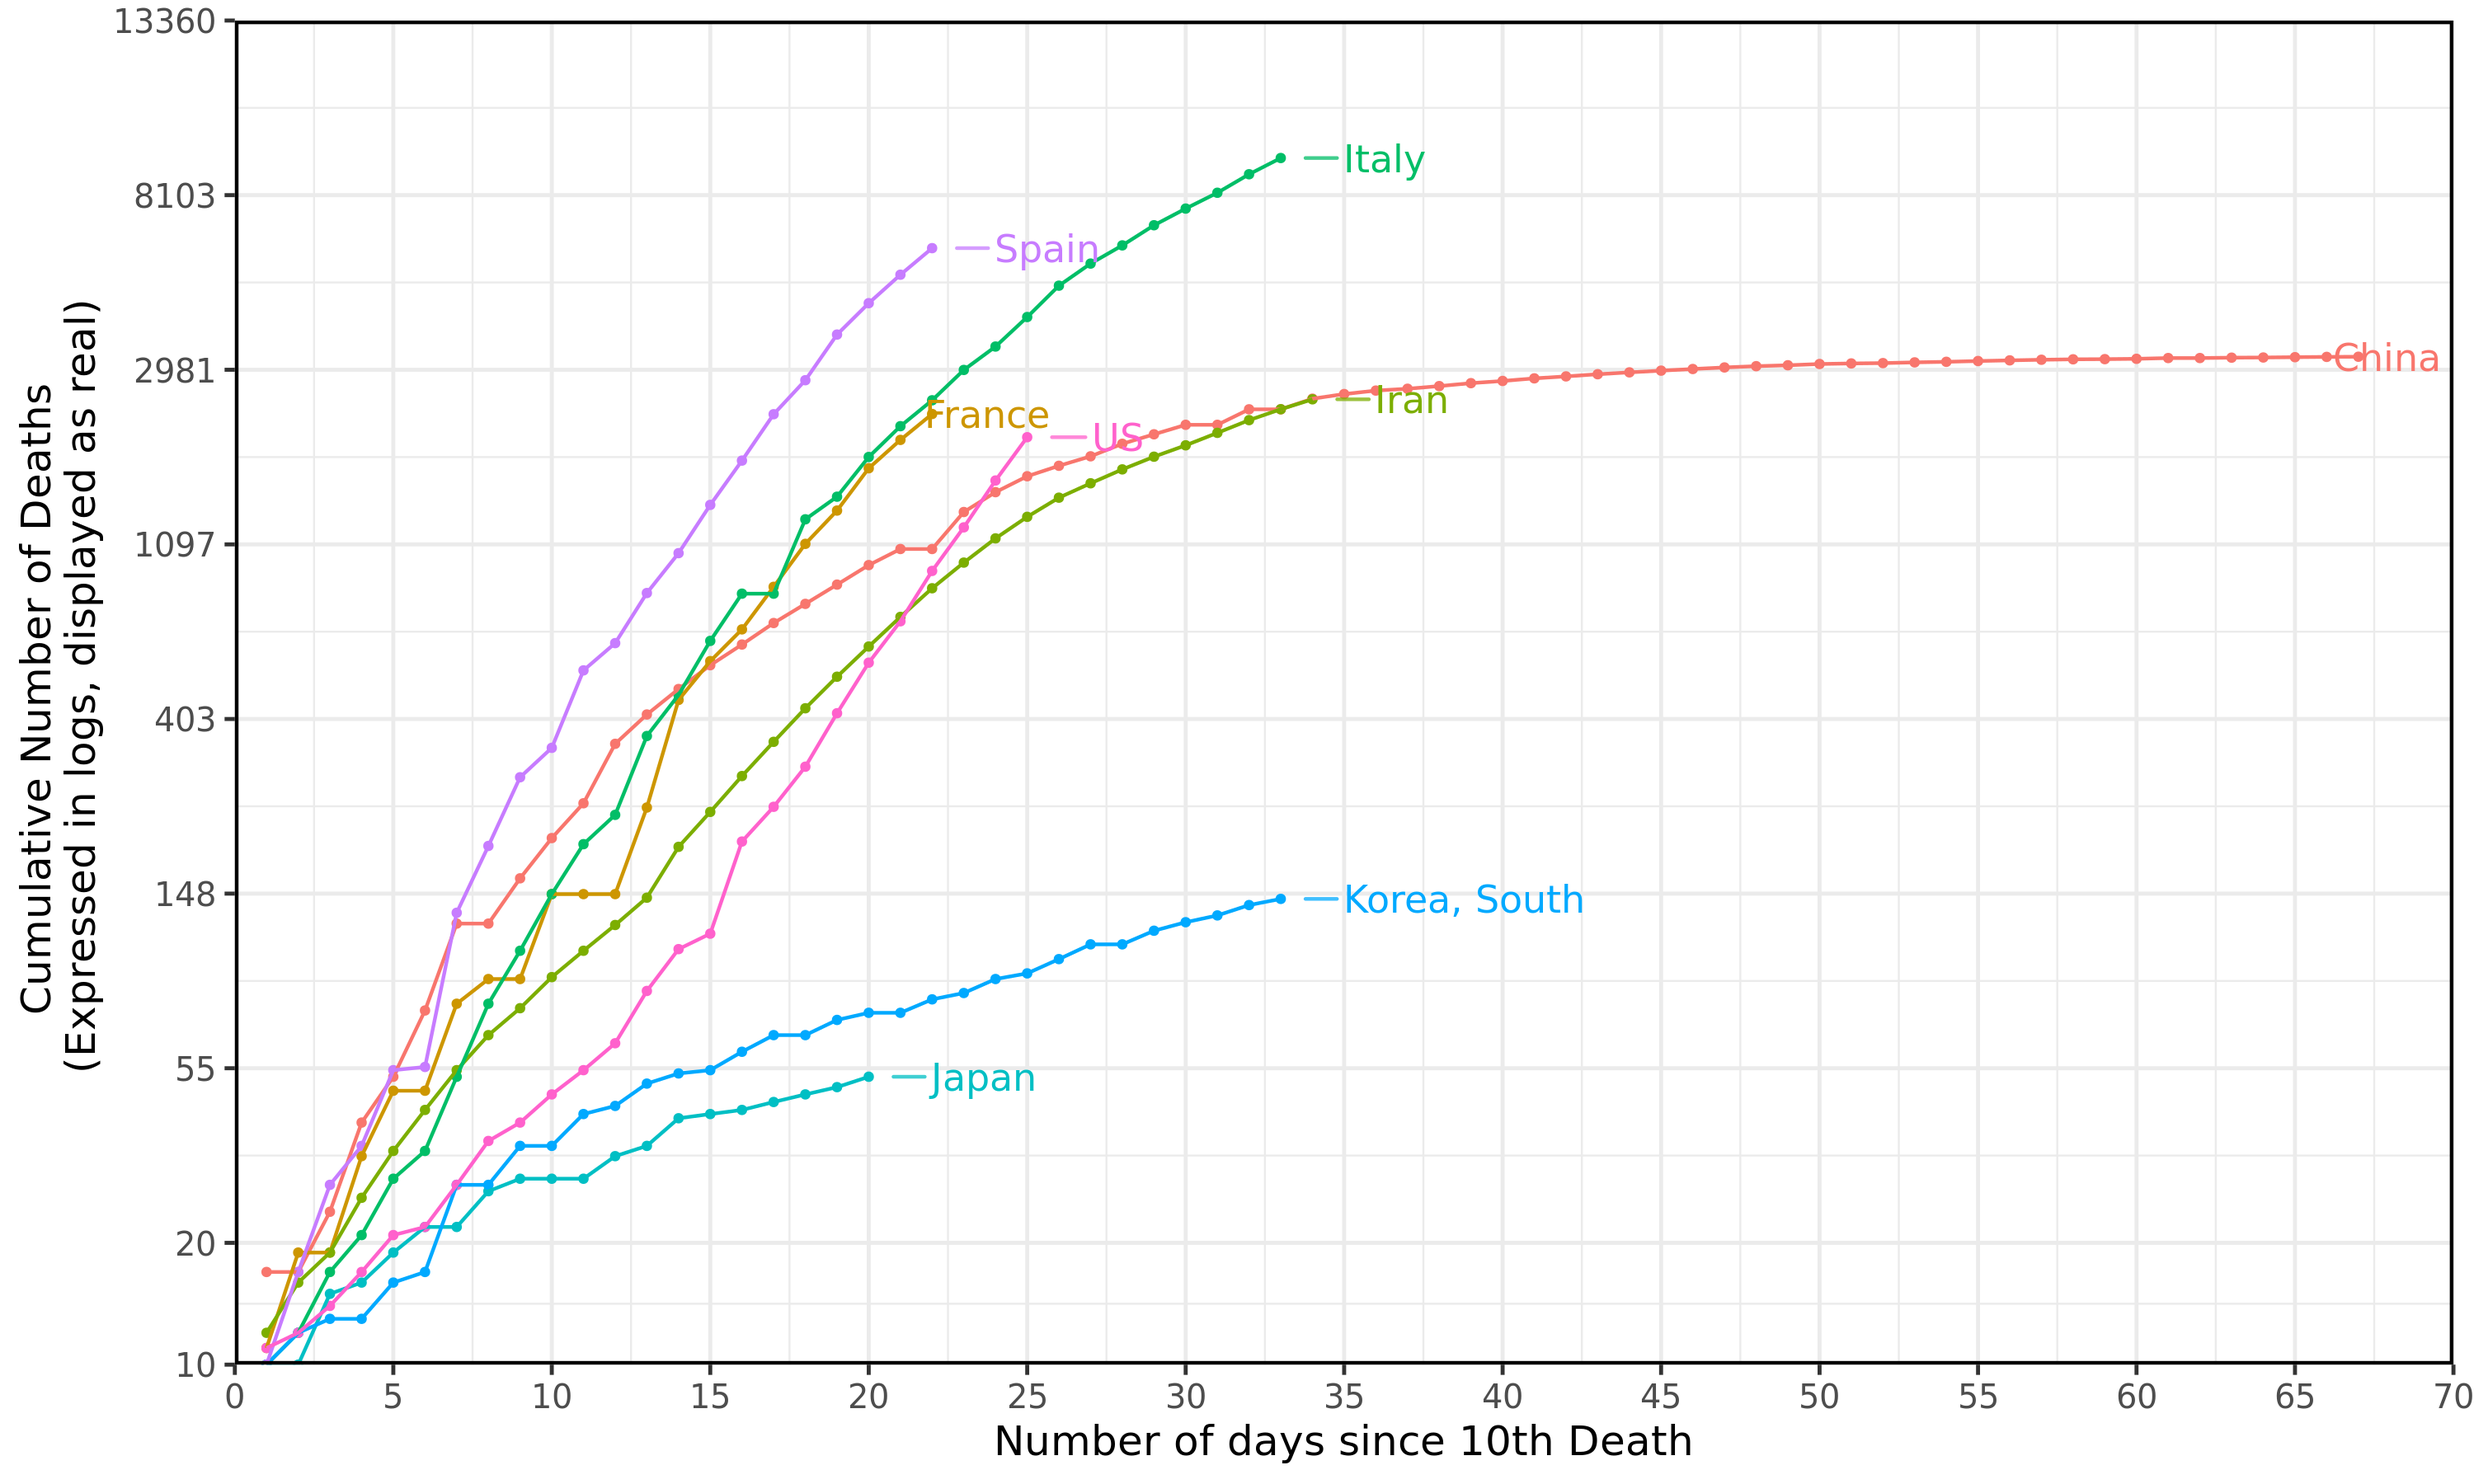
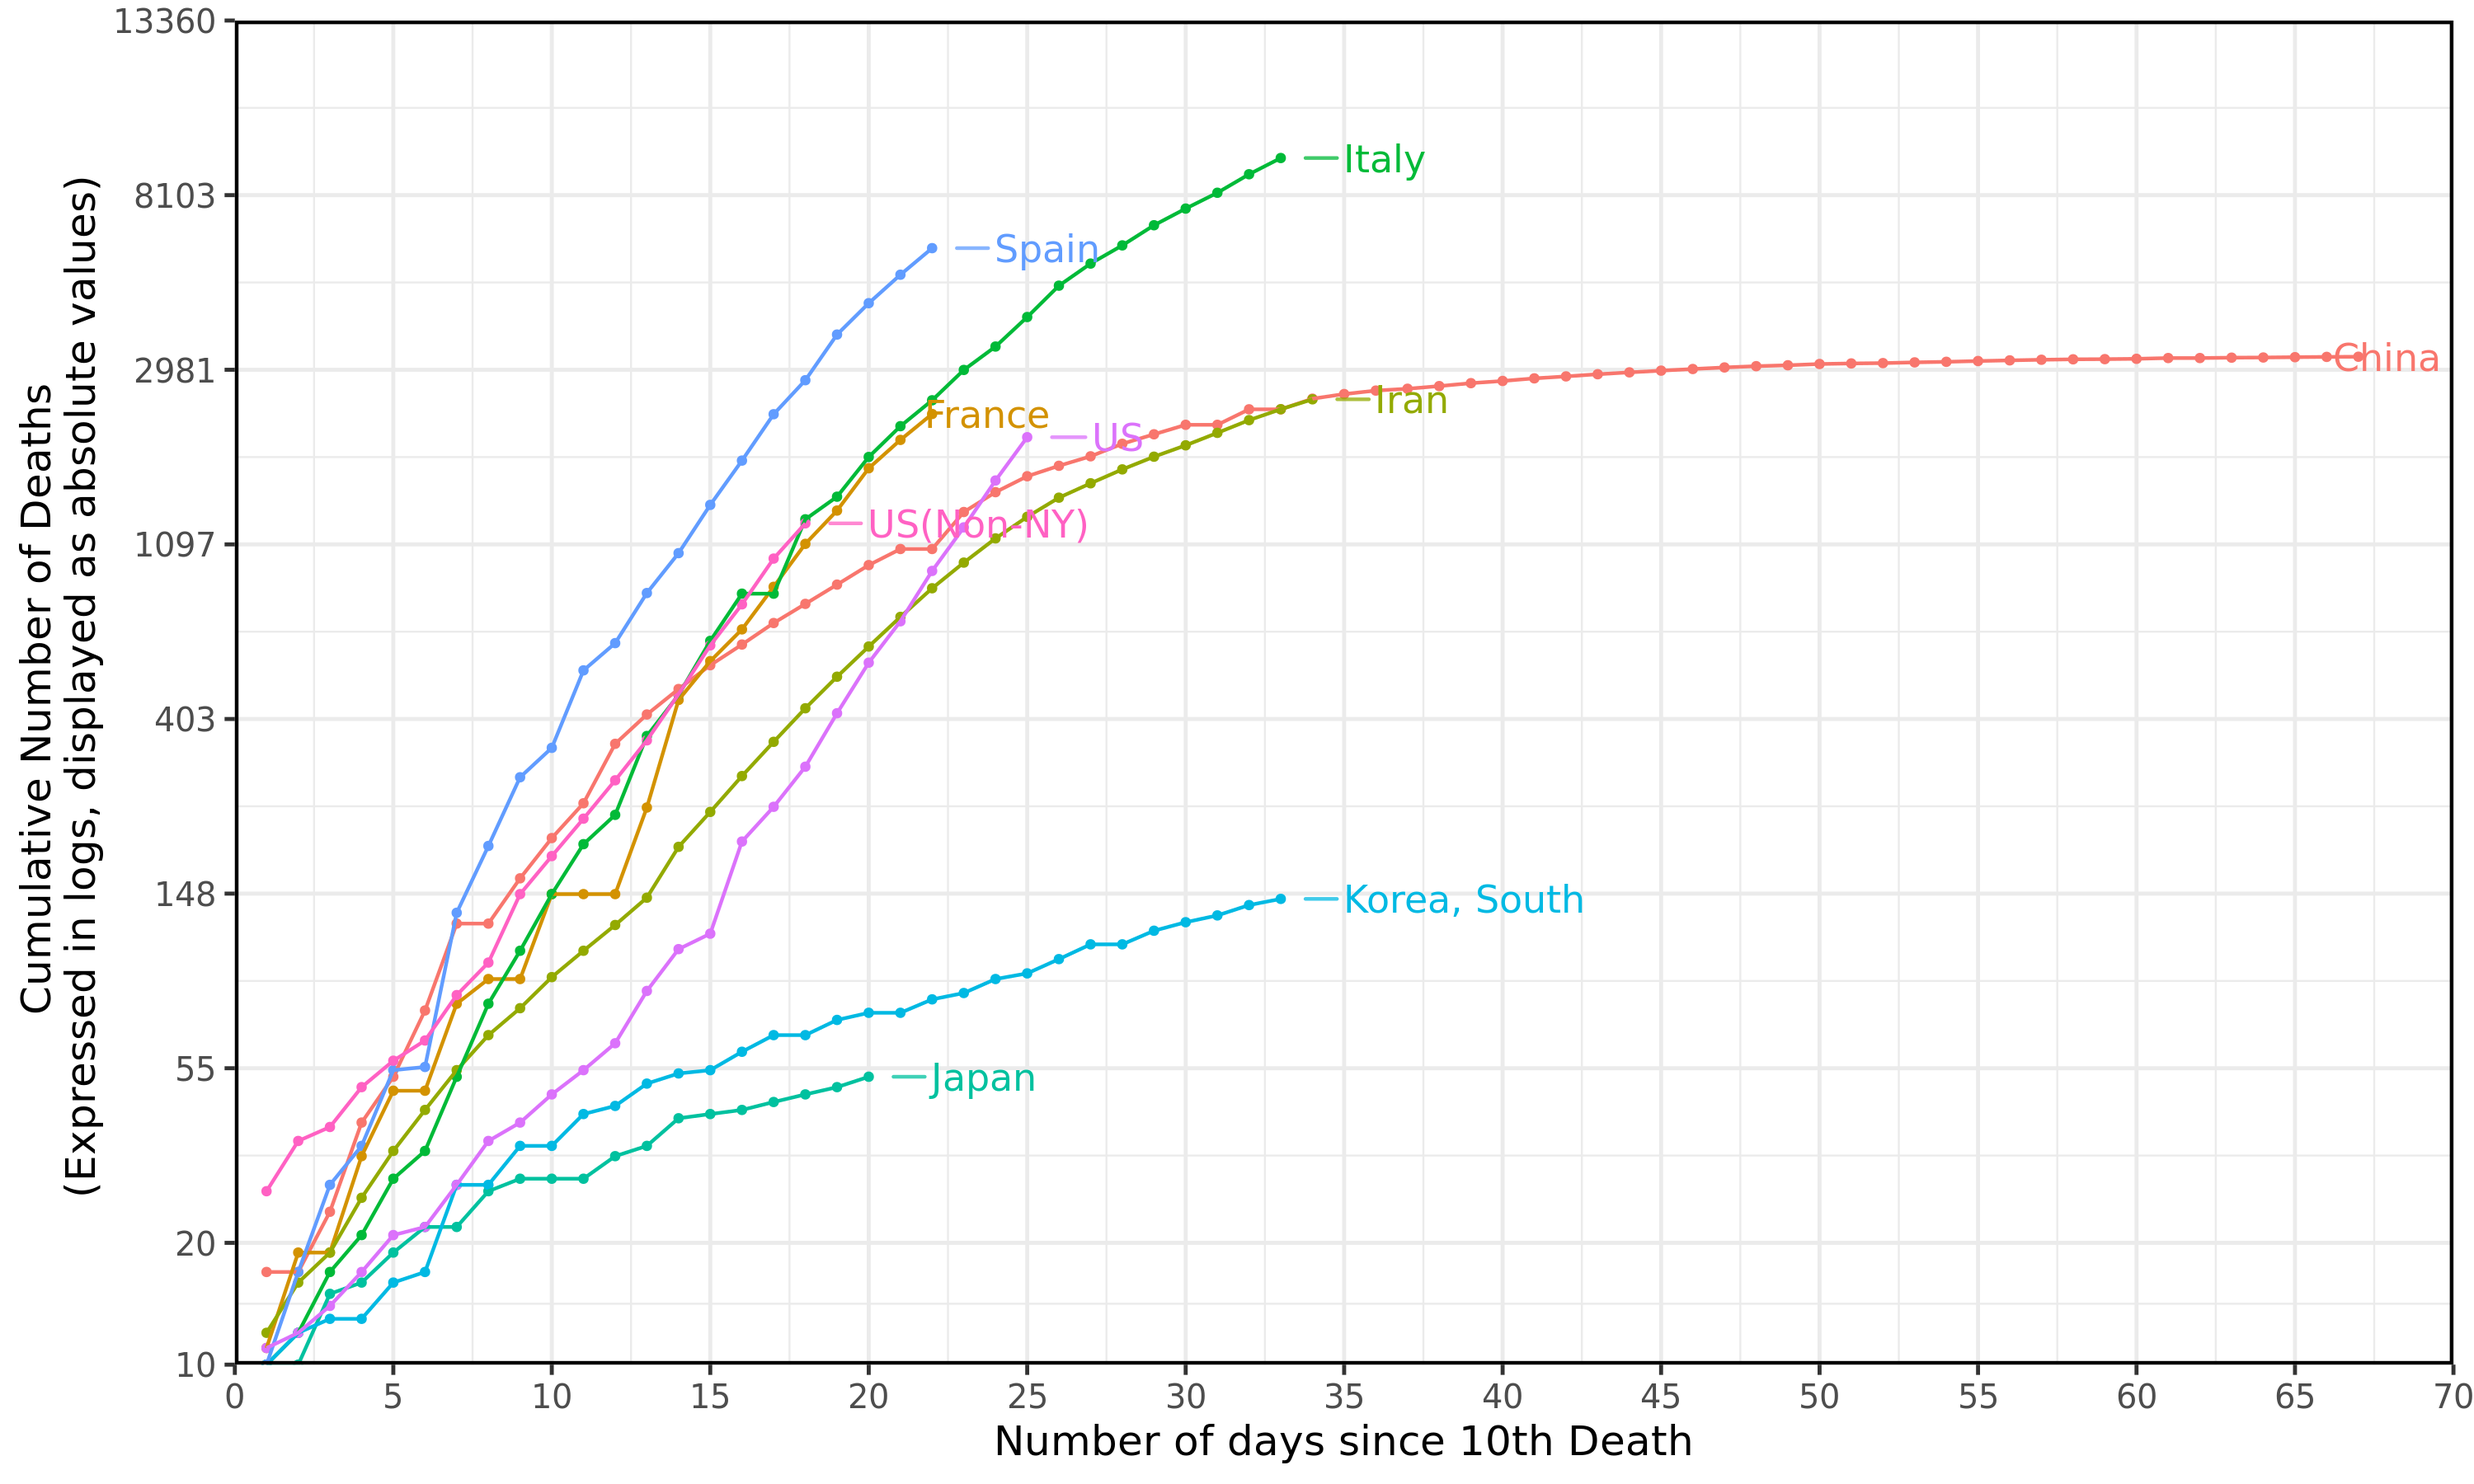
added US(Non-NY)

diff --git a/README.md b/README.md
@@ -4,20 +4,32 @@ Analysis of the coronavirus pandemic inspired by the great data visualiziation b
 
 ----------------------------
 
-Figure 1: Cumulative Number of Deaths since 10th Death
+**Figure 1: Cumulative Number of Deaths since 10th Death**
 
 <p align="center">
 
 <img align="center" width="800" src="https://github.com/johnwoodill/covid-eda/raw/master/figures/1-World-Rate.png?raw=true">
 
-Figure 2: US Mortality Multiplier
+Figure provides the cumulative number of world deaths since the 10th death in each country. The x-axis is the number of days since the 10th death and the y-axis is the real deaths for each country. The observations in the plot are expressed in log_10, which measures the exponential growth in the absolute values (linear increases in log_10 represent exponential growth of the absolute values). This allows for a comparative analysis across countries. We do not need population data when using log because the log of a fraction is simply the difference of the denominator (log(x/y) = log(x) - log(y) where log(y) is the constant population).
+
+
+
+**Figure 2: US Cumulative Number of Deaths since 10th Death**
 
 <p align="center">
 
-<img align="center" width="800" src="https://github.com/johnwoodill/covid-eda/raw/master/figures/2-US-Mortality-Multiplier.png?raw=true">
+<img align="center" width="800" src="https://github.com/johnwoodill/covid-eda/raw/master/figures/2-US-State-Rate.png?raw=true">
 
-Figure 3: US Cumulative Number of Deaths since 10th Death
+Figure provides US cumulative number of deaths since the 10th death grouped by US regional states. 
+
+
+**Figure 3: US Mortality Multiplier**
 
 <p align="center">
 
-<img align="center" width="800" src="https://github.com/johnwoodill/covid-eda/raw/master/figures/3-US-State-Rate.png?raw=true">
+<img align="center" width="800" src="https://github.com/johnwoodill/covid-eda/raw/master/figures/3-US-Mortality-Multiplier.png?raw=true">
+
+Figure provides the US mortality multiplier across various right rolling mean windows. The multiplier rate describes how the death rate is increasing from the previous `n` days. A multiplier rate of 1.33 means deaths are doubling every 3 days. A loess trend line is fit through the data represented as a blue line with marginal error in grey.
+
+
+
